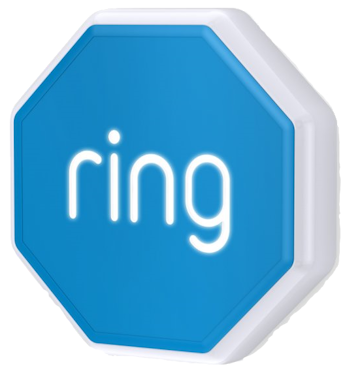
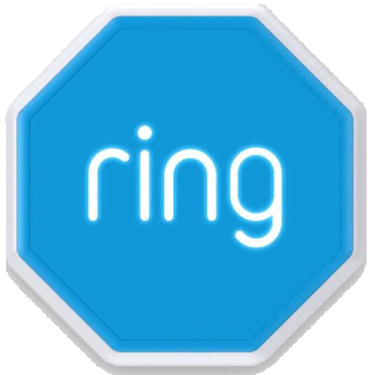
Changement image

diff --git a/docs/de_DE/changelog_beta.md b/docs/de_DE/changelog_beta.md
@@ -9,6 +9,9 @@
 >
 >Wenn es keine Informationen über die Aktualisierung gibt, handelt es sich nur um eine Aktualisierung der Dokumentation, der Übersetzung oder des Textes.
 
+# 15/01/2023
+- Bild hinzufügen Außensirene
+
 # 04/12/2023
 - Fehler behoben, durch den das alte Topic nicht gelöscht wurde, wenn es geändert wurde.
 

diff --git a/docs/fr_FR/changelog_beta.md b/docs/fr_FR/changelog_beta.md
@@ -9,6 +9,9 @@
 >
 >S'il n'y a pas d'information sur la mise à jour, c'est que celle-ci concerne uniquement de la mise à jour de documentation, de traduction ou de texte.
 
+# 15/01/2023
+- Ajout image Outdoor Siren
+
 # 04/12/2023
 - Correction erreur de non suppression de l'ancien topic lors d'un changement de ce dernier.
 

diff --git a/docs/es_ES/changelog_beta.md b/docs/es_ES/changelog_beta.md
@@ -9,6 +9,9 @@
 >
 >Si no hay información sobre la actualización, significa que sólo se trata de actualizaciones de documentación, traducción o texto.
 
+# 15/01/2023
+- Añadir imagen Sirena exterior
+
 # 04/12/2023
 - Solucionado el problema de no borrar el tema antiguo al cambiarlo.
 

diff --git a/docs/en_US/changelog_beta.md b/docs/en_US/changelog_beta.md
@@ -9,6 +9,9 @@
 >
 >If there is no information about the update, it means that it is only for documentation, translation or text updates.
 
+# 15/01/2023
+- Add picture for Outdoor Siren
+
 # 04/12/2023
 - Fixed the problem of not deleting the old topic when changing it.
 
